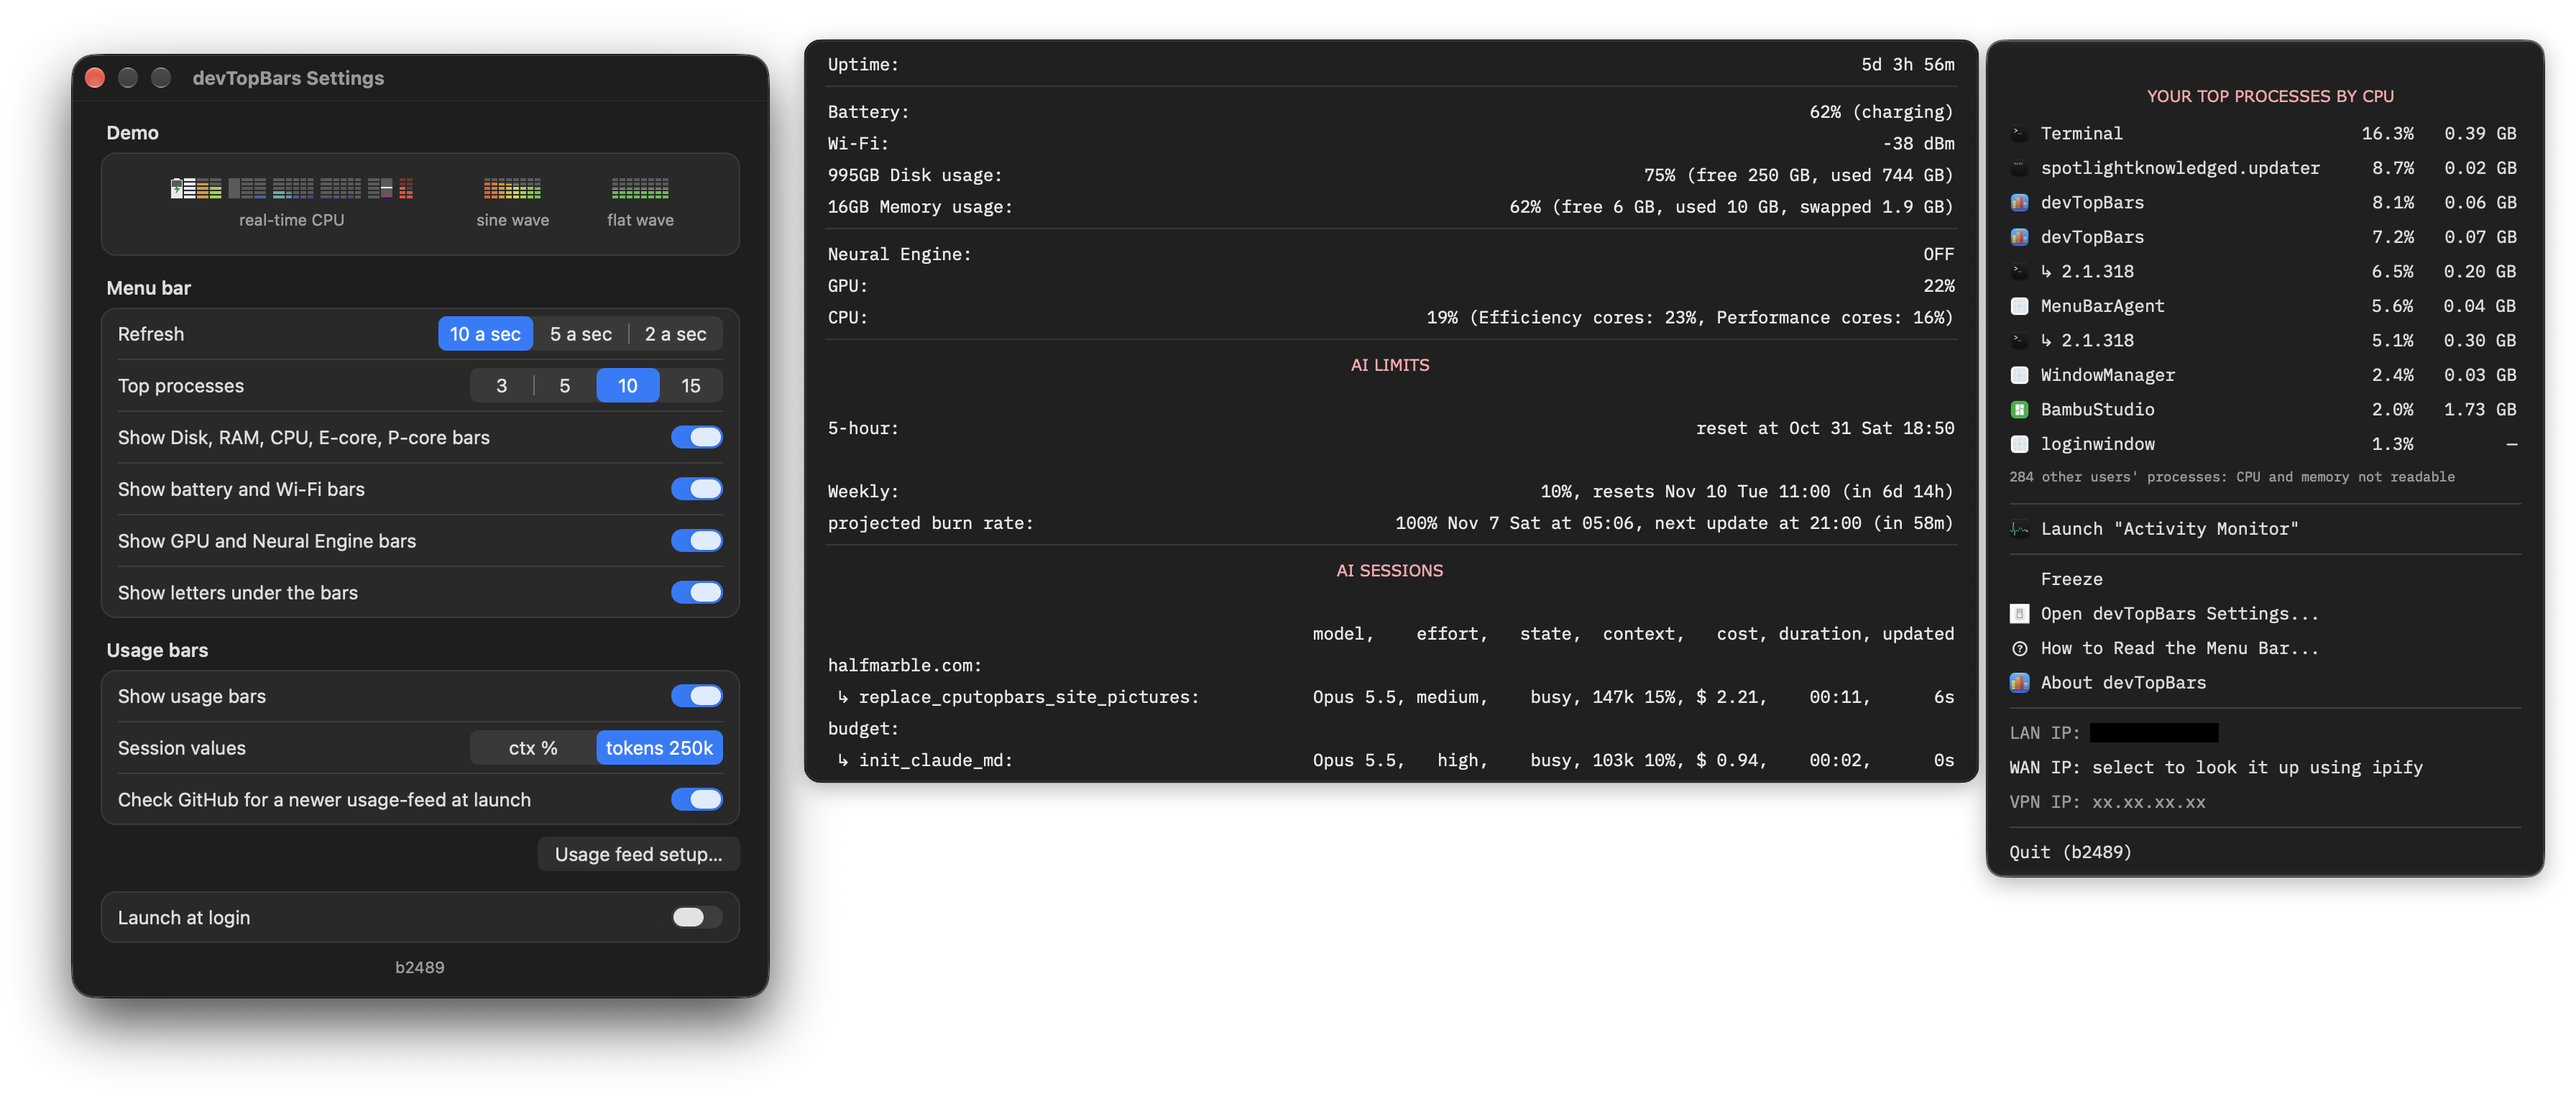
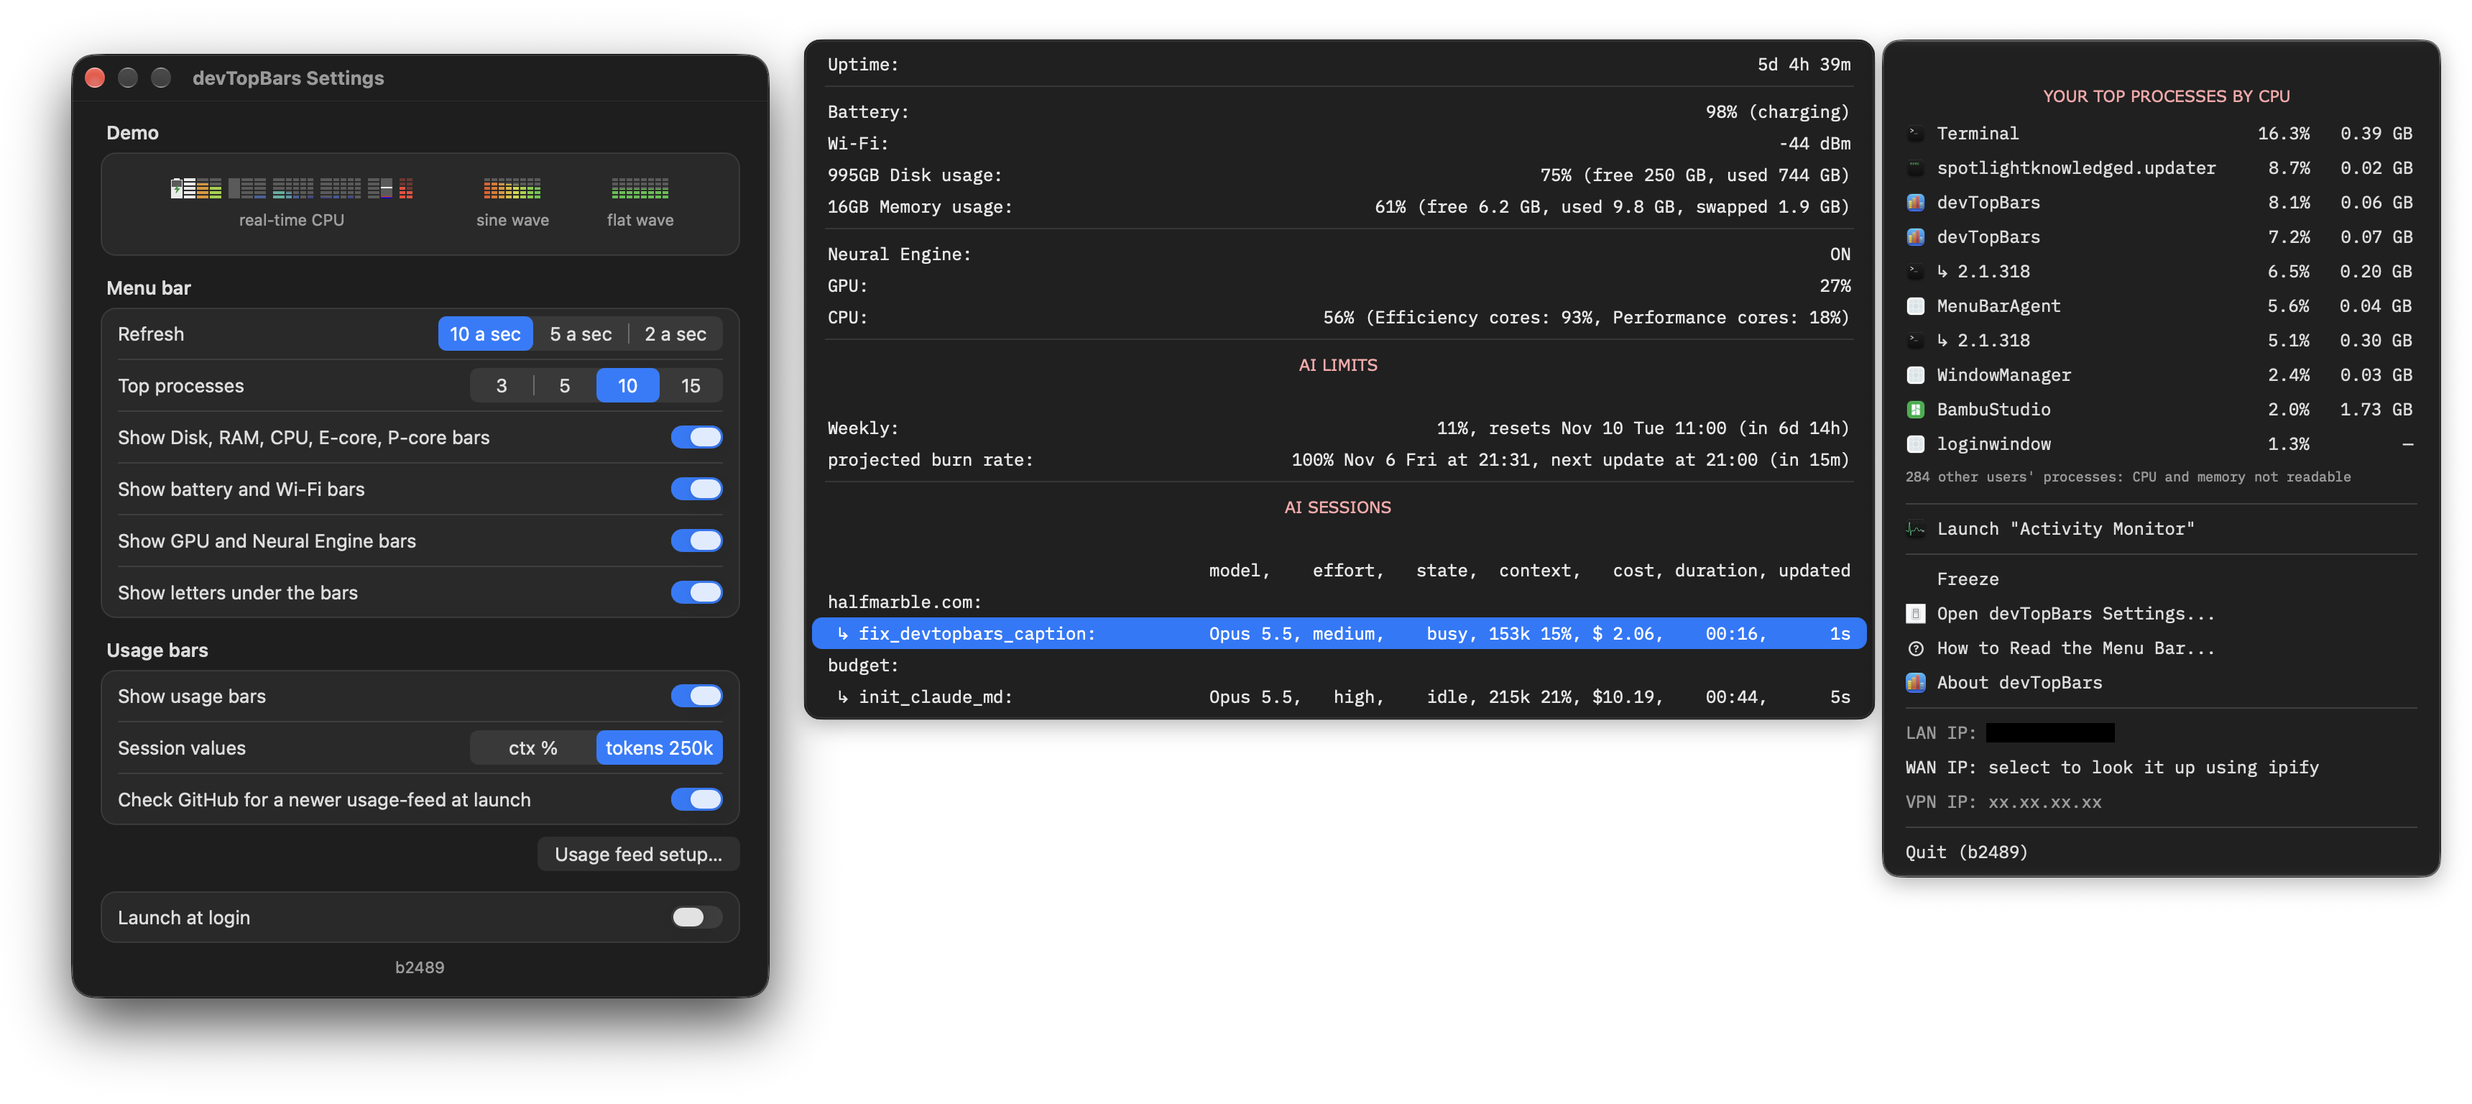
Update devTopBars picture and caption

diff --git a/devtopbars/index.html b/devtopbars/index.html
@@ -173,18 +173,18 @@
 
   <section class="block">
     <div class="section-label">Shared <span class="accent">//</span> with cpuTopBars</div>
-    <p class="section-sub">Rest the pointer on a bar for a second and its reading appears below the menu bar, as in cpuTopBars. Captured in cpuTopBars built from source.</p>
+    <p class="section-sub">Rest the pointer on a bar for a second and its reading appears below the menu bar, as in cpuTopBars. The panels were captured in devTopBars, the labels below in cpuTopBars built from source.</p>
     <figure class="shot">
-      <img src="../cputopbars/media/settings-readings-processes2.png" width="1792" height="768" alt="Three panels side by side: devTopBars Settings with a live demo of the graph, refresh rate, number of processes, switches for each group of bars and the usage bars' settings; a readings panel with uptime, battery, Wi-Fi, disk, memory, Neural Engine, GPU and CPU, then the AI limits and the AI sessions; and the menu listing your top processes by CPU with their memory, then Activity Monitor, Freeze, Settings, How to Read the Menu Bar and About, then the LAN IP (blacked out), WAN IP and VPN IP rows" loading="lazy">
-      <figcaption>Settings, the readings panel and the process menu, as built from source</figcaption>
+      <img src="../cputopbars/media/settings-readings-processes2.png" width="1720" height="768" alt="Three panels side by side: devTopBars Settings with a live demo of the graph, refresh rate, number of processes, switches for each group of bars and the usage bars' settings; a readings panel with uptime, battery, Wi-Fi, disk, memory, Neural Engine, GPU and CPU, then the AI limits and the AI sessions, one session highlighted; and the menu listing your top processes by CPU with their memory, then Activity Monitor, Freeze, Settings, How to Read the Menu Bar and About, then the LAN IP (blacked out), WAN IP and VPN IP rows" loading="lazy">
+      <figcaption>Settings, the readings panel and the process menu</figcaption>
     </figure>
-    <p class="section-sub" style="margin:-4px auto 34px;font-size:13.5px;">devTopBars works like cpuTopBars from the App Store, not like this build: its menu lists your own processes and counts the others in one row, the GPU shows its use without watts, and the Neural Engine shows as on or off. Its menu also adds the LAN, WAN and VPN rows.</p>
+    <p class="section-sub" style="margin:-4px auto 34px;font-size:13.5px;">devTopBars works like cpuTopBars from the App Store: its menu lists your own processes and counts the others in one row, the GPU shows its use without watts, and the Neural Engine shows as on or off. Its menu also adds the LAN, WAN and VPN rows.</p>
     <div class="hovers">
       <figure class="hover"><img src="../cputopbars/media/hover-battery.png" width="250" height="107" alt="Battery label: charge and whether it is charging" loading="lazy"><figcaption>Battery</figcaption></figure>
       <figure class="hover"><img src="../cputopbars/media/hover-wifi.png" width="274" height="191" alt="Wi-Fi label: signal, then IP address, router and MAC address (blacked out), security, channel, noise, transmit rate and PHY mode" loading="lazy"><figcaption>Wi-Fi</figcaption></figure>
       <figure class="hover"><img src="../cputopbars/media/hover-disk.png" width="222" height="121" alt="Disk label: startup volume use with free and used space" loading="lazy"><figcaption>Disk</figcaption></figure>
       <figure class="hover"><img src="../cputopbars/media/hover-memory.png" width="220" height="135" alt="Memory label: memory in use with free, used and swapped memory" loading="lazy"><figcaption>Memory</figcaption></figure>
-      <figure class="hover"><img src="../cputopbars/media/hover-gpu.png" width="175" height="93" alt="GPU label: the GPU's use" loading="lazy"><figcaption>GPU</figcaption></figure>
+      <figure class="hover"><img src="../cputopbars/media/hover-gpu.png" width="175" height="93" alt="GPU label: the GPU's use, and its power in watts as cpuTopBars built from source shows it" loading="lazy"><figcaption>GPU</figcaption></figure>
       <figure class="hover"><img src="../cputopbars/media/hover-cpu.png" width="208" height="107" alt="CPU label: overall use with efficiency and performance cores' use" loading="lazy"><figcaption>CPU</figcaption></figure>
       <figure class="hover"><img src="../cputopbars/media/hover-e-cores.png" width="207" height="135" alt="Efficiency cores label: each core's load" loading="lazy"><figcaption>Efficiency cores</figcaption></figure>
       <figure class="hover"><img src="../cputopbars/media/hover-p-cores.png" width="240" height="135" alt="Performance cores label: each core's load" loading="lazy"><figcaption>Performance cores</figcaption></figure>
